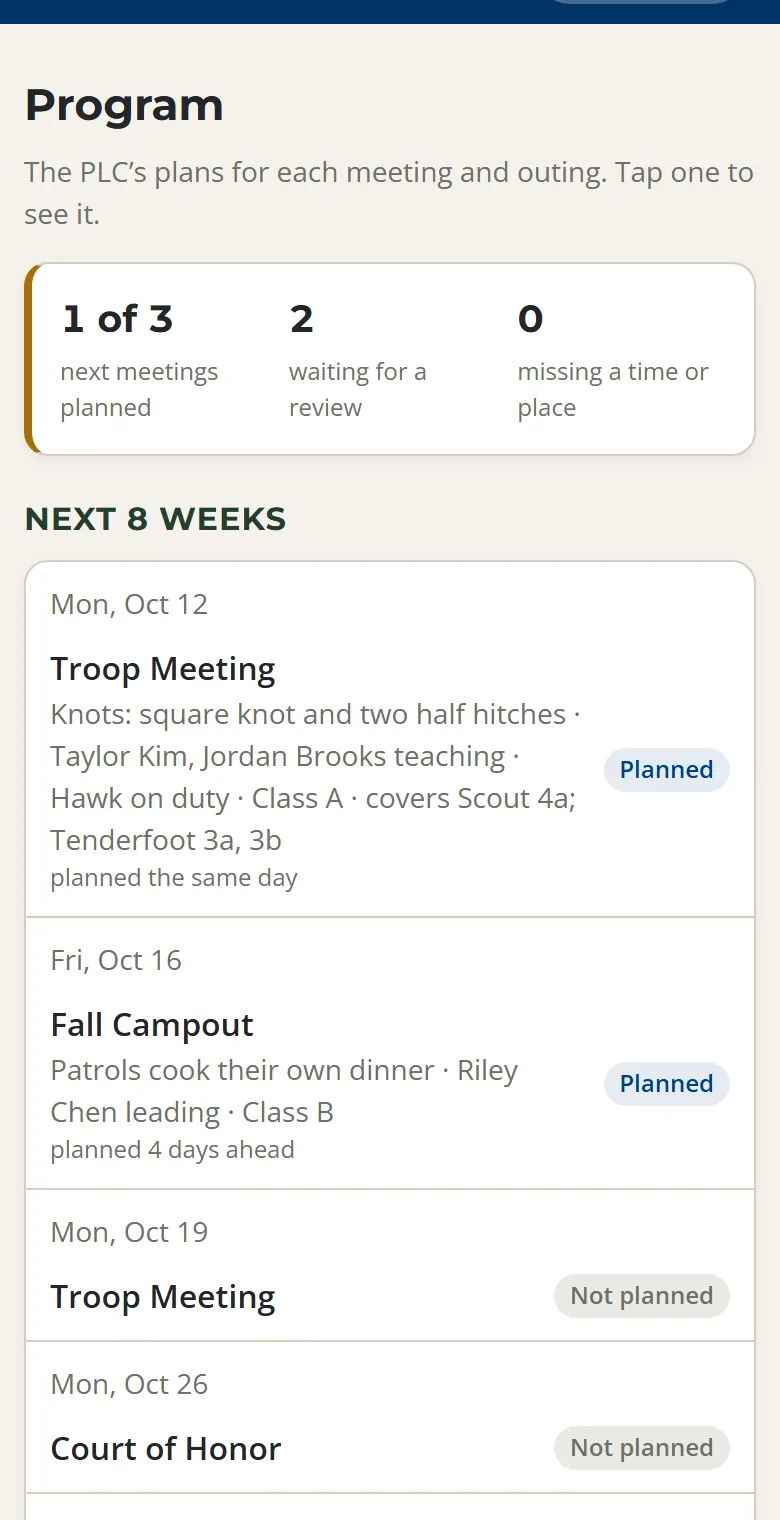
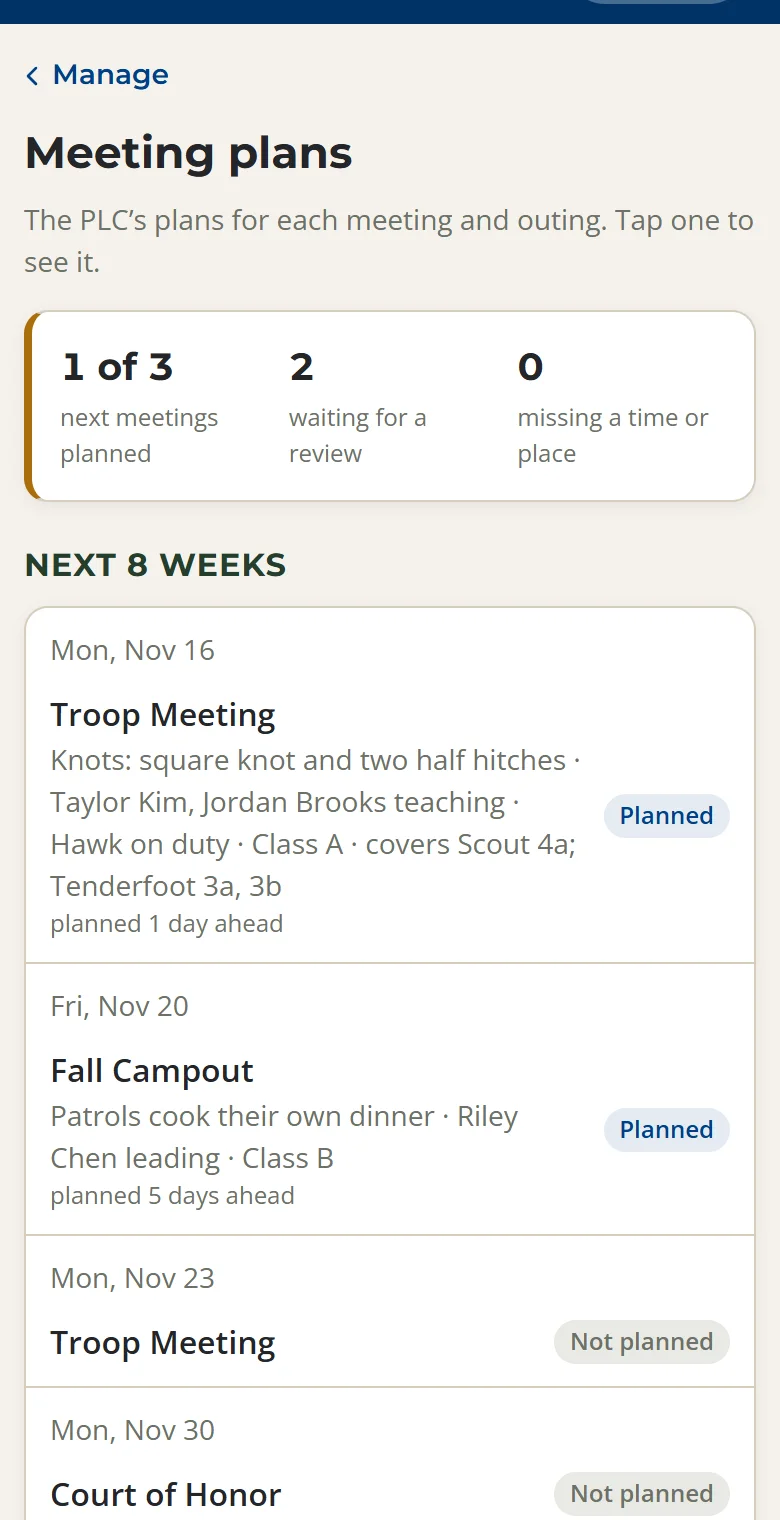
App guide: the Manage page and My job replace the Leaders menu
The app's Leaders dropdown became a Manage page for adults and a My job page
for Scouts, so the guide follows:

- "The Leaders Menu" section is now "The Manage Page": Needs attention, the
  four groups, and the Find box, with a new screenshot.
- Scouts get an "If you have a troop job" part with a My job screenshot.
- The PLC part says how to reach the plans now (My job, or Manage for
  leaders), and "Program" is "Meeting plans" throughout. Both of its page
  screenshots were re-shot with the new title.
- Attendance and join requests point at Manage.

Screenshots come from the made-up demo troop, as before.

diff --git a/app.html b/app.html
@@ -220,7 +220,7 @@
         <optgroup label="For Leaders">
           <option value="attendance">Taking Attendance</option>
           <option value="add-events">Adding Events</option>
-          <option value="leader-pages">The Leaders Menu</option>
+          <option value="leader-pages">The Manage Page</option>
           <option value="join-requests">Approving New Families</option>
         </optgroup>
         <optgroup label="Help">
@@ -255,7 +255,7 @@
           <p class="sidebar-label">For Leaders</p>
           <a href="#attendance">Taking Attendance</a>
           <a href="#add-events">Adding Events</a>
-          <a href="#leader-pages">The Leaders Menu</a>
+          <a href="#leader-pages">The Manage Page</a>
           <a href="#join-requests">Approving New Families</a>
 
           <p class="sidebar-label">Help</p>
@@ -285,7 +285,7 @@
                 <li><strong>Photos</strong>: pictures from troop events</li>
                 <li><strong>Profile</strong>: your Scout's record and your account</li>
               </ul>
-              <p>On a computer, the same links run across the top. Leaders also see a <strong>Leaders</strong> menu at the top. Anyone with just one leader page, like Program, gets a single link there instead.</p>
+              <p>On a computer, the same links run across the top. Leaders also get a <strong>Manage</strong> button at the top, and a Scout with a troop job gets <strong>My job</strong>.</p>
             </div>
             <figure class="app-shot">
               <img src="images/app-guide/home.webp" alt="The app's Home screen showing today's troop meeting, upcoming events, and the bar along the bottom with Home, Events, Chat, Photos, and Profile" width="390" height="900">
@@ -453,6 +453,21 @@
             <li>It also lists the rank requirements taught at events you were at. When you're ready, show a leader you can do one, and they'll sign it off.</li>
             <li>Earned a rank? Tap <strong>update rank</strong> on your Profile, and a leader confirms it.</li>
           </ul>
+          <div class="app-step">
+            <div>
+              <h3>If you have a troop job</h3>
+              <p>A Scout who takes attendance or plans meetings gets a <strong>My job</strong> button at the top of the app. It lists what's yours to do, with one button for each.</p>
+              <ul>
+                <li><strong>Take attendance</strong>: on the day of a meeting or outing, tap <strong>Start check-in</strong>, then tap each Scout's name as they arrive. Home shows the same button that day.</li>
+                <li><strong>Plan a meeting</strong>: for the Scouts who write plans. It tells you when a meeting coming up doesn't have one yet.</li>
+                <li><strong>See who came</strong>: the attendance report.</li>
+              </ul>
+            </div>
+            <figure class="app-shot">
+              <img src="images/app-guide/my-job.webp" alt="My job for a Scout who is the Scribe: Take attendance with a Start check-in button for tonight's meeting, Plan a meeting with a note that the next meeting has no plan yet, and See who came" width="390" height="650" loading="lazy">
+              <figcaption>My job, as the Scribe sees it.</figcaption>
+            </figure>
+          </div>
           <p>Everything a Scout can see in the app, their parents can see too.</p>
         </section>
 
@@ -464,7 +479,7 @@
           <div class="app-step">
             <div>
               <h3>Plan the month</h3>
-              <p>Tap <strong>Program</strong> at the top (it's in the <strong>Leaders</strong> menu if you have other leader pages too). It opens on <strong>Plan the month</strong>: the next five meetings and any outings in between, with a few boxes each. It works best at the PLC's monthly meeting, with one person typing while everyone decides.</p>
+              <p>Tap <strong>My job</strong> at the top, then the button under <strong>Plan a meeting</strong>. That opens the <strong>Meeting plans</strong> page, which starts with <strong>Plan the month</strong>: the next five meetings and any outings in between, with a few boxes each. It works best at the PLC's monthly meeting, with one person typing while everyone decides.</p>
               <ol>
                 <li><strong>What are we doing?</strong> The skill or theme for the night. This is the only box you need.</li>
                 <li><strong>Who's teaching?</strong> Type a name and pick it from the list. Add as many as you need: Scouts, adult leaders, or a guest (type their name and tap <strong>Add as a guest</strong>). The first Scout or leader is the point person. For an outing, it's who's leading.</li>
@@ -475,7 +490,7 @@
               <p>To plan or change just one meeting or outing, open it and tap <strong>Plan this meeting</strong> or <strong>Edit plan</strong>. It's the same boxes.</p>
             </div>
             <figure class="app-shot">
-              <img src="images/app-guide/plan-month.webp" alt="Plan the month on the Program page: a meeting with what we're doing, two Scouts teaching with the first marked point person, what to bring, Class A and Class B buttons, the duty patrol, and three rank requirements picked" width="390" height="800" loading="lazy">
+              <img src="images/app-guide/plan-month.webp" alt="Plan the month on the Meeting plans page: a meeting with what we're doing, two Scouts teaching with the first marked point person, what to bring, Class A and Class B buttons, the duty patrol, and three rank requirements picked" width="390" height="800" loading="lazy">
               <figcaption>Plan the month: the general idea for each meeting.</figcaption>
             </figure>
           </div>
@@ -502,7 +517,7 @@
             </figure>
           </div>
           <h3>Need something from the committee?</h3>
-          <p>The Scouts plan the program, and the committee helps make it happen. When a plan needs something, ask the adult in the position that handles it. The same list is on the Program page.</p>
+          <p>The Scouts plan the program, and the committee helps make it happen. When a plan needs something, ask the adult in the position that handles it. The same list is on the Meeting plans page.</p>
           <ul>
             <li><strong>A campsite, reservation or permit:</strong> Outdoor Activities Coordinator</li>
             <li><strong>Gear, or something from the trailer:</strong> Equipment Coordinator</li>
@@ -514,11 +529,11 @@
           <p>If that position is open, the Committee Chair handles it. <a href="involved.html#positions">See each position and whether it's filled</a>.</p>
           <div class="app-step">
             <div>
-              <h3>The rest of the Program page</h3>
-              <p>Leaders also see a summary and the next 8 weeks of meetings and outings: which ones are planned, how far ahead, and who's teaching, so they know what the PLC needs from them. Anything still missing a time or a place is listed at the bottom for leaders to fill in.</p>
+              <h3>What leaders see on Meeting plans</h3>
+              <p>Leaders open <strong>Meeting plans</strong> from the <strong>Manage</strong> page. They get a summary and the next 8 weeks of meetings and outings: which ones are planned, how far ahead, and who's teaching, so they know what the PLC needs from them. Anything still missing a time or a place is listed at the bottom for leaders to fill in.</p>
             </div>
             <figure class="app-shot">
-              <img src="images/app-guide/program.webp" alt="The leaders' view of the Program page: how many of the next meetings are planned, and the next 8 weeks, each marked Planned or Not planned" width="390" height="760" loading="lazy">
+              <img src="images/app-guide/program.webp" alt="The leaders' view of Meeting plans: how many of the next meetings are planned, and the next 8 weeks, each marked Planned or Not planned" width="390" height="760" loading="lazy">
               <figcaption>What leaders see: the next 8 weeks at a glance.</figcaption>
             </figure>
           </div>
@@ -541,12 +556,12 @@
           <div class="app-step">
             <div>
               <ol>
-                <li>On meeting night, tap <strong>Check in</strong> on the Home screen, or open the meeting. On the day of an event, attendance is at the top of its page.</li>
+                <li>On meeting night, tap <strong>Check in</strong> on the Home screen (for a Scout, it's <strong>Start check-in</strong>), or open the meeting. On the day of an event, attendance is at the top of its page.</li>
                 <li>Pick <strong>Present</strong>, <strong>Absent</strong>, or <strong>Excused</strong>, then tap each name. Tap again to clear it.</li>
                 <li>For campouts and service projects, tap everyone who went. For someone who came for part of a trip, tap <strong>adjust stay</strong>.</li>
               </ol>
               <p>For meetings, anyone left unmarked counts as absent. Before an event, attendance is tucked away, but you can still open it to mark an excused absence early.</p>
-              <p>The <strong>Attendance report</strong> in the Leaders menu has the totals, with a spreadsheet download for entering in Scoutbook.</p>
+              <p>The <strong>Attendance report</strong> on the <strong>Manage</strong> page has the totals, with a spreadsheet download for entering in Scoutbook. <strong>Take attendance</strong>, on the same page, goes straight to today's event.</p>
             </div>
             <figure class="app-shot">
               <img src="images/app-guide/attendance.webp" alt="A meeting on the day it happens, with the count of Scouts present, buttons for Present, Absent, and Excused, and names grouped by patrol" width="390" height="700" loading="lazy">
@@ -577,26 +592,25 @@
           </div>
         </section>
 
-        <!-- Leaders menu -->
+        <!-- Manage -->
         <section id="leader-pages" class="guide-section">
-          <h2>The Leaders Menu</h2>
-          <p class="section-lead">The pages behind the scenes. Which ones you see depends on your role.</p>
+          <h2>The Manage Page</h2>
+          <p class="section-lead">Every leader tool in one place. Which ones you see depends on your role.</p>
           <div class="app-step">
             <div>
+              <p>Tap <strong>Manage</strong> at the top of the app. <strong>Needs attention</strong> comes first, with anything that's waiting on you, like a join request, a rank change to approve, or a meeting coming up with no plan. Under it, the tools are in four groups.</p>
               <ul>
-                <li><strong>Scouts &amp; families</strong>: the roster, patrols, ranks, parents, and join requests</li>
-                <li><strong>Adults</strong>: leaders, roles and backups, and merit badge counselors</li>
-                <li><strong>Attendance report</strong>: totals and a spreadsheet download</li>
-                <li><strong>Program</strong>: the PLC's plans and reviews</li>
-                <li><strong>Recruiting</strong>: what to post and when, for the pack and the troop</li>
-                <li><strong>Community</strong>: email the troop, the weekly digest, and stories</li>
-                <li><strong>Settings</strong>: weekly meetings, quiet hours, and backups, with when the last weekly backup went out</li>
+                <li><strong>Meetings</strong>: Take attendance, Meeting plans (the PLC's plans and reviews), and the Attendance report (totals and a spreadsheet download)</li>
+                <li><strong>People</strong>: Scouts &amp; families (the roster, patrols, ranks, parents, and join requests), Adult leaders, Roles &amp; backups, and Merit badge counselors</li>
+                <li><strong>Communication</strong>: Email (write to the troop, keep the mailing list, and turn the weekly digest on or off) and Recruiting (what to post and when, for the pack and the troop)</li>
+                <li><strong>Troop business</strong>: Finances, Committee documents, and Troop settings (the meeting schedule, quiet hours, the check-in tablet, and backups, with when the last weekly backup went out)</li>
               </ul>
+              <p>Can't find something? Type it in the <strong>Find</strong> box at the top. On a computer, the groups also sit in a list down the left side, so you can jump from one tool to another.</p>
               <p>Keep at least two admins, so the troop isn't stuck if one steps away. The app won't let the last admin be removed.</p>
             </div>
             <figure class="app-shot">
-              <img src="images/app-guide/admin-menu.webp" alt="The Leaders menu listing Scouts and families, Adults, Attendance report, Program, Recruiting, Community, and Settings" width="390" height="475" loading="lazy">
-              <figcaption>The Leaders menu, as an admin sees it.</figcaption>
+              <img src="images/app-guide/manage.webp" alt="The Manage page as an admin sees it: a Find box, Needs attention with a join request and a meeting that has no plan, the Meetings group with Take attendance, Meeting plans and Attendance report, and the People group" width="390" height="842" loading="lazy">
+              <figcaption>Manage, as an admin sees it.</figcaption>
             </figure>
           </div>
         </section>
@@ -608,7 +622,7 @@
           <div class="app-step">
             <div>
               <ol>
-                <li>Admins get an email when someone asks to join, and the request waits on <strong>Scouts &amp; families</strong>.</li>
+                <li>Admins get an email when someone asks to join. The request shows at the top of <strong>Manage</strong>, under Needs attention, and waits on <strong>Scouts &amp; families</strong>.</li>
                 <li>The card shows whether the Scout's name they typed matches someone on the roster. Check it before you link anyone.</li>
                 <li>Open <strong>Approve &amp; invite</strong>, choose <strong>Parent / Guardian</strong> or <strong>Leader / Committee</strong>, tick their Scout, and tap <strong>Confirm &amp; send sign-in link</strong>.</li>
               </ol>
